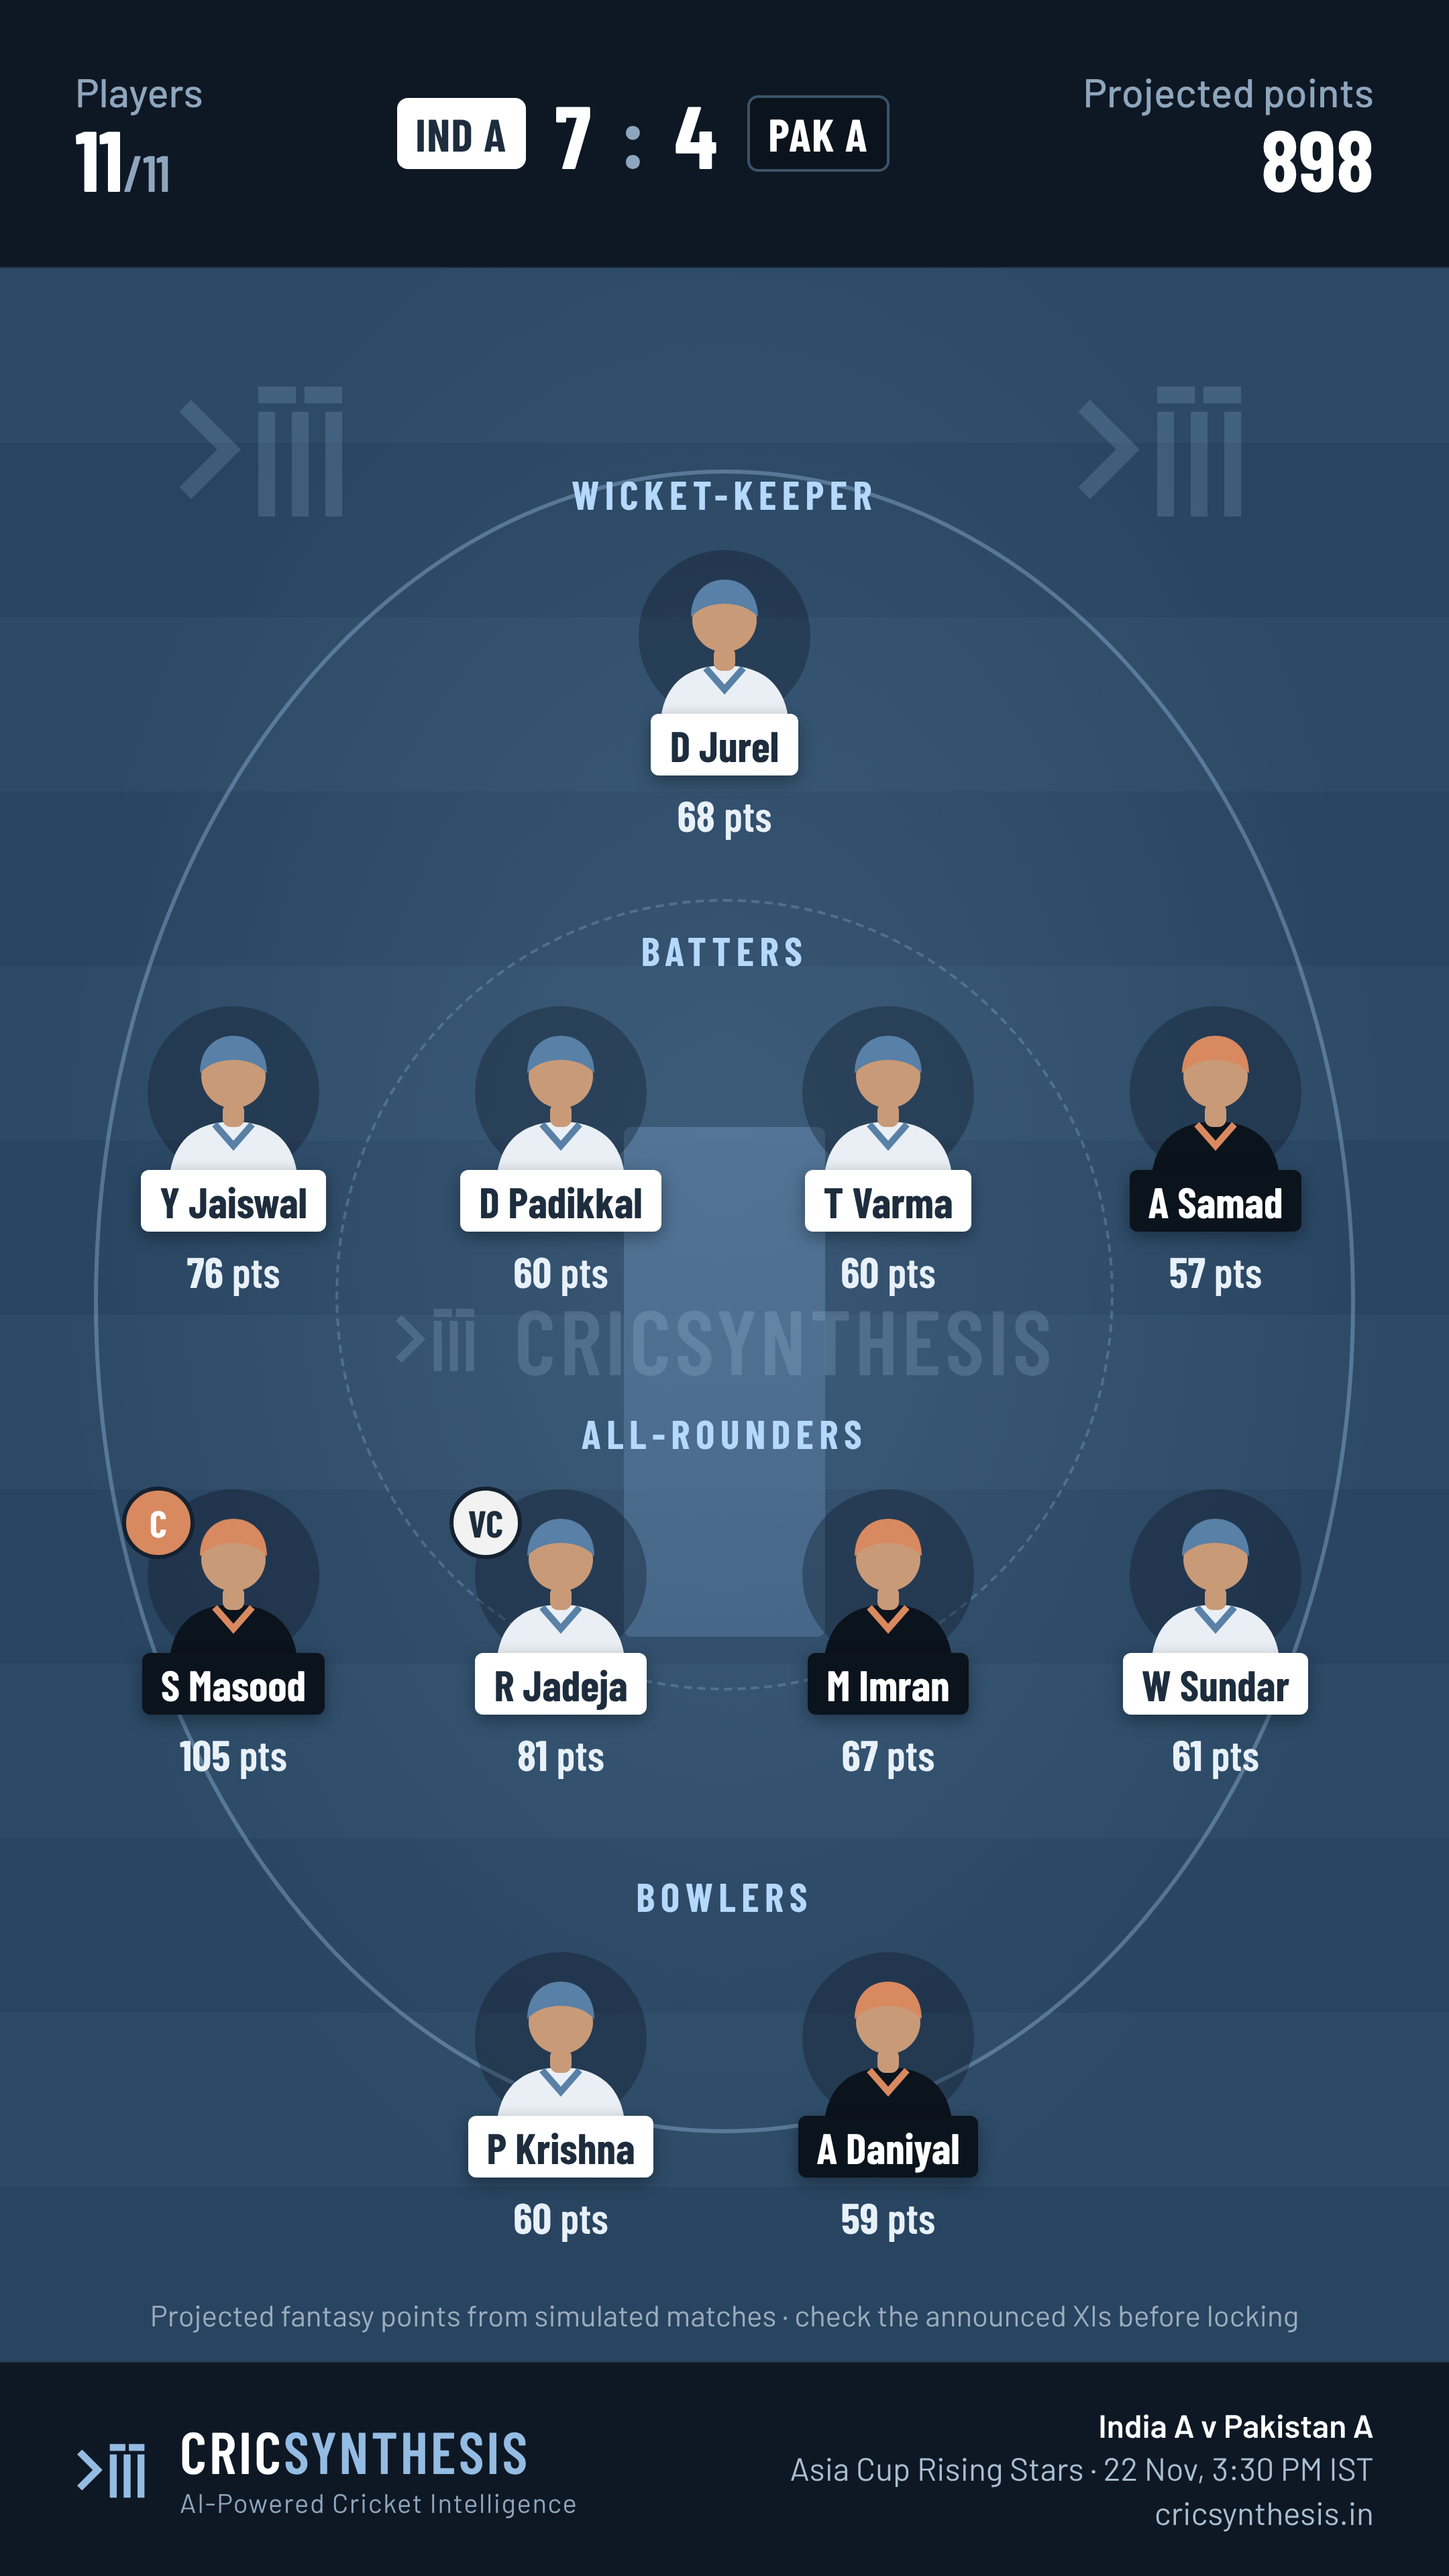
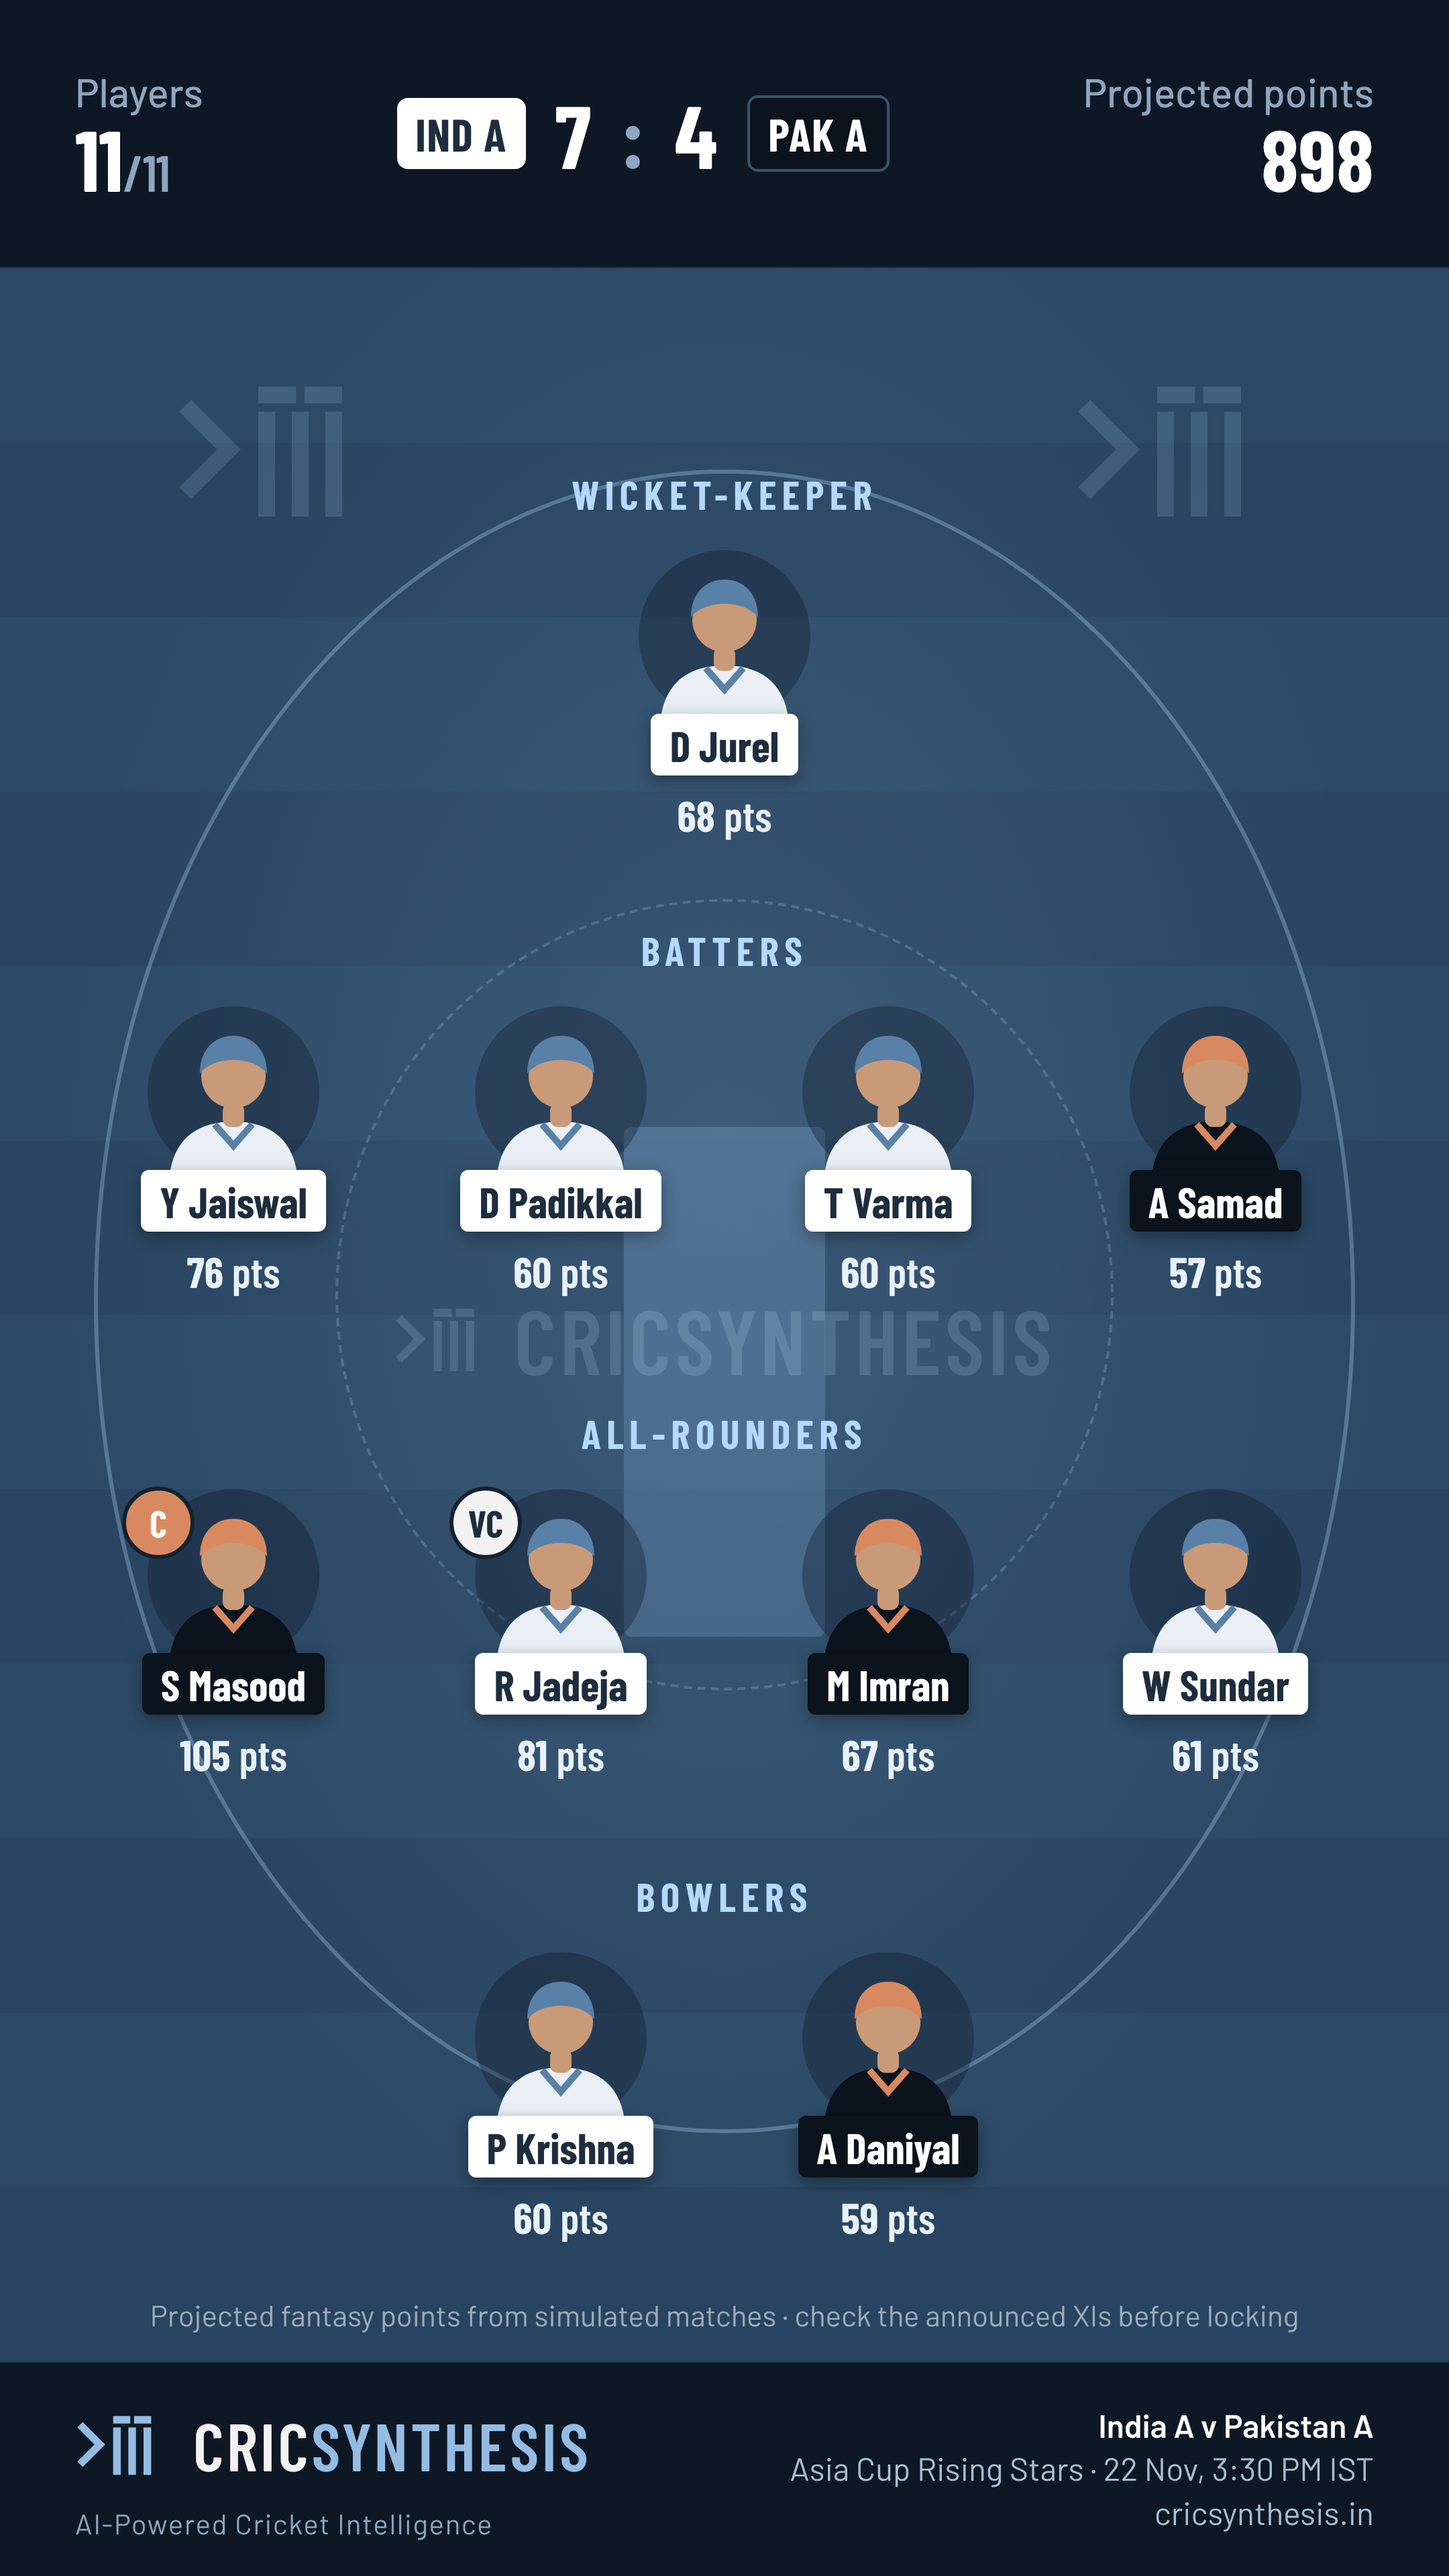
Fantasy card footer: the brand-kit lockup (mark beside CRICSYNTHESIS, tagline below)
The mark was centred across the wordmark and tagline, so it sat low; it now
sits beside the wordmark at its height, as in lockup-on-dark, with the
tagline underneath. Marketing card re-rendered.

Claude-Session: https://claude.ai/code/session_01DtYK7t4cwHWwRbQiwwp7NB

Changed region(s): [[0.062, 0.9375, 0.4032, 1.0]]

diff --git a/marketing/fantasy/fantasy-card.html b/marketing/fantasy/fantasy-card.html
@@ -37,11 +37,12 @@ body{width:1080px;height:1920px;background:var(--s95);font-family:Barlow,sans-se
 .cv{position:absolute;top:0;left:22px;width:54px;height:54px;border-radius:50%;display:grid;place-items:center;font-family:'Barlow Condensed';font-weight:700;font-size:28px;z-index:3;border:3px solid var(--s95)}
 .cv.c{background:var(--clay);color:#fff}.cv.v{background:var(--paper);color:var(--s9)}
 .foot{height:160px;background:#0e1824;border-top:1px solid #22364a;display:flex;align-items:center;justify-content:space-between;padding:0 56px}
-.logo{display:flex;align-items:center;gap:16px}
-.logo svg{width:62px;height:62px;color:var(--light)}
-.logo .w{font-family:'Barlow Condensed';font-weight:600;font-size:44px;line-height:1;letter-spacing:.04em;text-transform:uppercase}
+.logo{display:flex;flex-direction:column;align-items:flex-start;gap:12px}
+.logo .lk{display:flex;align-items:center;gap:20px;color:var(--paper)}
+.logo svg{width:68px;height:68px;color:var(--light);display:block}
+.logo .w{font-family:'Barlow Condensed';font-weight:600;font-size:50px;line-height:1;letter-spacing:.04em;text-transform:uppercase}
 .logo .w span{color:var(--light)}
-.logo .t{font-size:20px;color:#8ea6bd;margin-top:4px;letter-spacing:.04em}
+.logo .t{font-size:21px;color:#8ea6bd;letter-spacing:.04em}
 .meta{text-align:right;font-size:24px;color:#a9bed2;line-height:1.35}
 .meta b{color:#fff;font-weight:600}
 .note{position:absolute;bottom:22px;left:0;right:0;text-align:center;font-size:22px;color:rgba(232,241,250,.6)}
@@ -64,7 +65,7 @@ body{width:1080px;height:1920px;background:var(--s95);font-family:Barlow,sans-se
 </div>
 
 <div class="foot">
-  <div class="logo"><svg><use href="#mark"/></svg><div><div class="w">Cric<span>Synthesis</span></div><div class="t">AI-Powered Cricket Intelligence</div></div></div>
+  <div class="logo"><div class="lk"><svg><use href="#mark"/></svg><div class="w">Cric<span>Synthesis</span></div></div><div class="t">AI-Powered Cricket Intelligence</div></div>
   <div class="meta" id="meta"></div>
 </div>
 

diff --git a/app/components/FantasyPitch.module.css b/app/components/FantasyPitch.module.css
@@ -44,11 +44,12 @@
 .note { position: relative; text-align: center; font-size: 11px; color: rgba(232, 241, 250, .62); margin: 4px 12px 0; line-height: 1.35; }
 .foot { display: flex; align-items: center; justify-content: space-between; gap: 12px; padding: 12px 16px; background: #0e1824;
         border-top: 1px solid #22364a; }
-.brand { display: flex; align-items: center; gap: 9px; color: #fff; flex: none; }
-.brand svg { width: 28px; height: 28px; color: #94bce3; flex: none; display: block; }
+.brand { display: flex; flex-direction: column; align-items: flex-start; gap: 5px; flex: none; }
+.lockup { display: inline-flex; align-items: center; gap: 8px; color: #f2f2f3; }
+.lockup svg { width: 27px; height: 27px; color: #94bce3; flex: none; display: block; }
 .word { font-family: "Barlow Condensed", Barlow, sans-serif; font-weight: 600; font-size: 20px; letter-spacing: .04em; text-transform: uppercase; line-height: 1; }
 .word b { font-weight: 600; color: #94bce3; }
-.tagline { font-size: 10.5px; color: #8ea6bd; letter-spacing: .04em; margin-top: 3px; white-space: nowrap; }
+.tagline { font-size: 10.5px; color: #8ea6bd; letter-spacing: .04em; white-space: nowrap; }
 .meta { text-align: right; font-size: 11.5px; color: #a9bed2; line-height: 1.35; min-width: 0; }
 .meta b { display: block; color: #fff; font-weight: 600; font-size: 13px; }
 @media (max-width: 440px) { .foot { flex-direction: column; align-items: flex-start; } .meta { text-align: left; } }

diff --git a/app/components/FantasyPitch.tsx b/app/components/FantasyPitch.tsx
@@ -88,8 +88,10 @@ export default function FantasyPitch({ players, captain, vice, short, total, not
         <p className={s.note}>{note ?? "Projected fantasy points (C 2×, VC 1.5×). Check the XIs before locking."}</p>
       </div>
       <figcaption className={s.foot}>
-        <span className={s.brand}><Mark /><span><span className={s.word}>Cric<b>Synthesis</b></span>
-          <span className={s.tagline} style={{ display: "block" }}>AI-Powered Cricket Intelligence</span></span></span>
+        <span className={s.brand}>
+          <span className={s.lockup}><Mark /><span className={s.word}>Cric<b>Synthesis</b></span></span>
+          <span className={s.tagline}>AI-Powered Cricket Intelligence</span>
+        </span>
         <span className={s.meta}>{match?.title && <b>{match.title}</b>}{sub && <>{sub}<br /></>}cricsynthesis.in</span>
       </figcaption>
     </figure>
